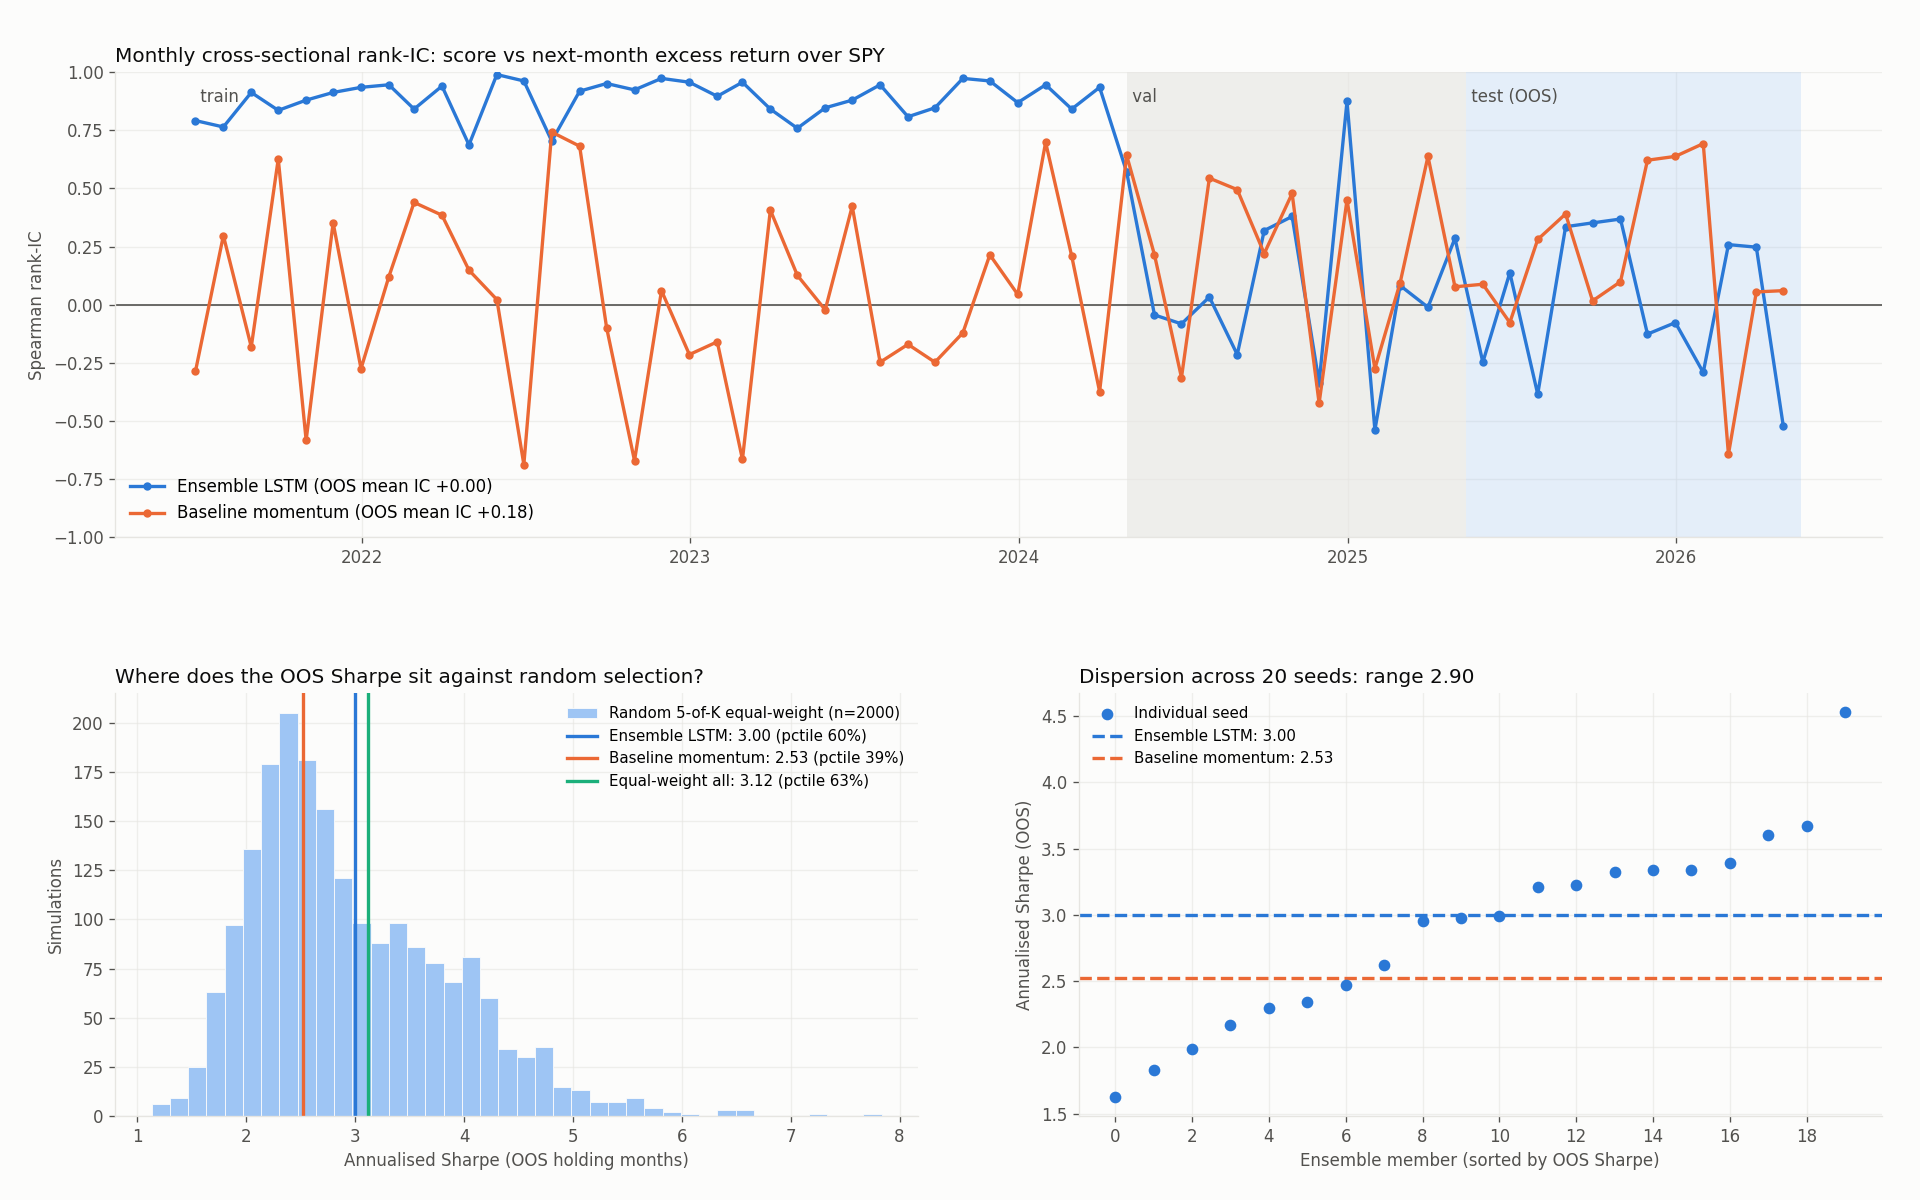
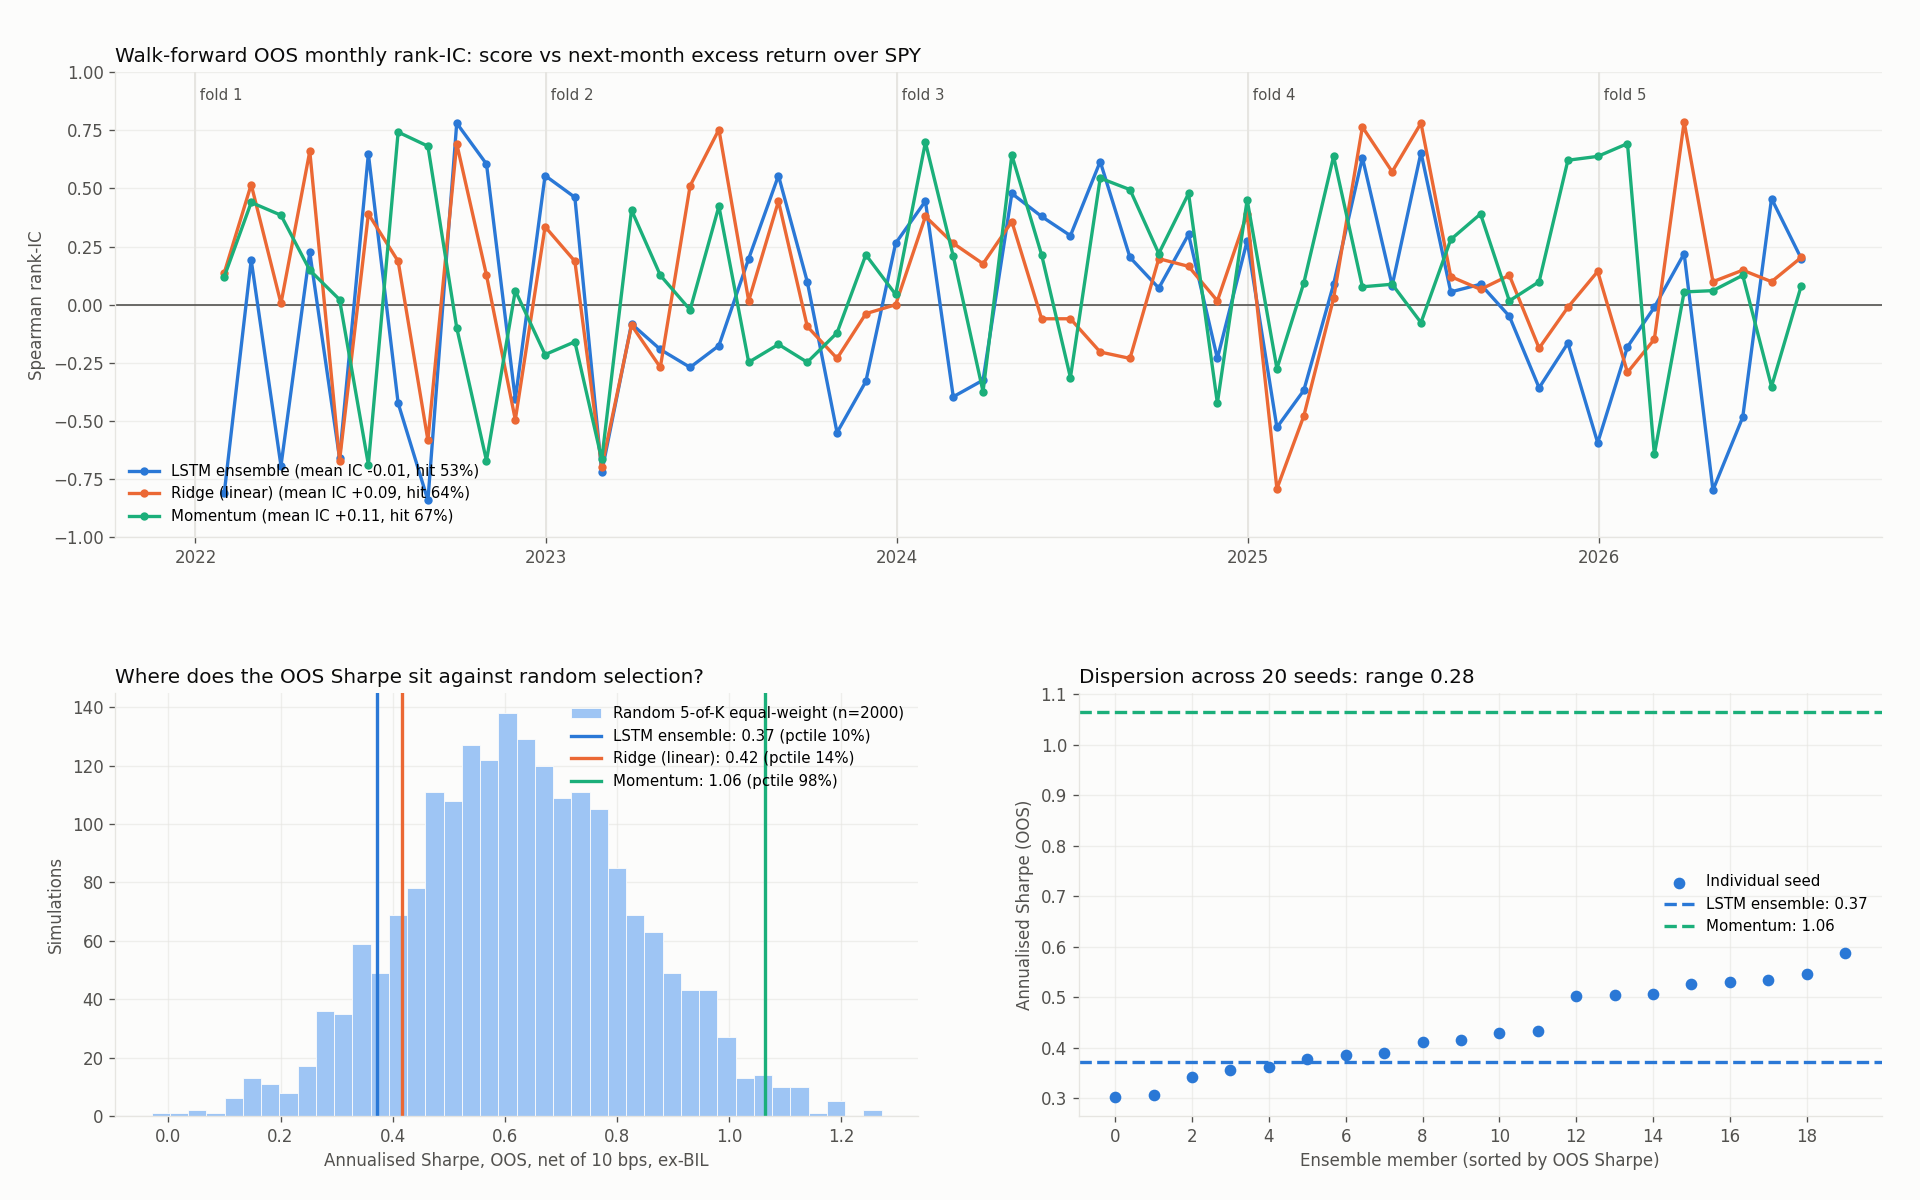
Record walk-forward results; rewrite README around the pre-registered verdict
Trained 5 folds x 20 seeds with the committed config and ran _5/_6.
Out of sample (2022-02..2026-08, 55 months, net 10 bps, Sharpe ex-BIL):

  LSTM ensemble  rank-IC -0.01 (t -0.16)  Sharpe 0.37  null pctile 10%
  Ridge          rank-IC +0.09 (t  1.86)  Sharpe 0.42  null pctile 14%
  Momentum       rank-IC +0.11 (t  2.12)  Sharpe 1.06  null pctile 98%
  SPY                                     Sharpe 0.66

Per fold the LSTM has in-sample IC 0.77-0.90 and OOS IC around zero.
All four pre-registered criteria (A predictive power, B vs ridge,
C strategy level, D consistency) fail. README now states the research
question, the validation design, these results and the honest
declarations, and retracts the earlier single-split 12-month numbers.

_6: legend placement fix in the seed-dispersion panel.

diff --git a/_6_diagnostics.py b/_6_diagnostics.py
@@ -168,7 +168,7 @@ def plot_report(ics, fold_starts, null_df, marks, seed_sharpes, out_path):
     ax.set_xlabel('Ensemble member (sorted by OOS Sharpe)', color=P['ink2'])
     ax.set_ylabel('Annualised Sharpe (OOS)', color=P['ink2'])
     ax.set_title(f'Dispersion across {len(vals)} seeds: range {vals.max() - vals.min():.2f}', color=P['ink'], loc='left')
-    ax.legend(loc='upper left', frameon=False, fontsize=9)
+    ax.legend(loc='center right', frameon=False, fontsize=9)
 
     fig.subplots_adjust(top=0.94, bottom=0.07, left=0.06, right=0.98)
     fig.savefig(out_path, dpi=120, facecolor=P['surface'])

diff --git a/README.md b/README.md
@@ -1,89 +1,126 @@
-# 📈 DeepAlpha-ETF: Ensemble LSTM & Macro-Aware Momentum Strategy
+# DeepAlpha-ETF: Does an Ensemble LSTM Beat Momentum at Monthly ETF Rotation?
 
-![Python](https://img.shields.io/badge/python-3.8%2B-blue.svg)
+![Python](https://img.shields.io/badge/python-3.13-blue.svg)
 ![PyTorch](https://img.shields.io/badge/PyTorch-%23EE4C2C.svg?logo=PyTorch&logoColor=white)
 ![Pandas](https://img.shields.io/badge/pandas-%23150458.svg?logo=pandas&logoColor=white)
 
-DeepAlpha-ETF is an end-to-end quantitative trading pipeline that applies **Deep Learning (Ensemble LSTM)** and **Macroeconomic Feature Engineering** to optimize ETF rotation strategies. It aims to outperform traditional momentum strategies by dynamically adjusting risk exposure and predicting excess returns (Alpha) based on market volatility and trend conditions.
+A research pipeline that asks one question: **can an ensemble LSTM trained on price and macro features rank a
+13-ETF universe by next-month excess return over SPY better than a plain momentum rule?** The pipeline is built so
+that the answer is decided by pre-registered criteria computed by code, not by reading an equity curve.
 
-## Key Features
+**Answer (walk-forward, 2022-02 to 2026-08, 55 months): no.** The LSTM has no detectable out-of-sample ranking
+ability (monthly rank-IC −0.01, t = −0.16), is not better than a ridge regression on the same features, and its
+net-of-cost Sharpe sits at the 10th percentile of random 5-of-13 selection. Simple 3/6/12-month momentum has a
+rank-IC of +0.11 (t = 2.1) and a Sharpe at the 98th percentile of the same null. Details below.
 
-* **Macro-Aware Feature Engineering:** Integrates global market features (SPY 200-day MA deviation, rolling volatility) with local ETF features (momentum, volatility) to give the model a holistic view of the market regime.
-* **Targeting Alpha:** Instead of predicting absolute returns, the model is trained to predict **Excess Return (Alpha)** against the SPY benchmark, naturally forcing it to seek outperforming assets.
-* **Ensemble Learning (AI Committee):** Trains multiple LSTM models with different random seeds and averages their predictions. This significantly reduces random variance and prevents overfitting, ensuring highly stable out-of-sample (OOS) performance.
-* **Signal-Weighted Allocation:** Automatically drops assets with negative expected Alpha and dynamically allocates capital proportionally to positive Alpha scores, effectively acting as an automated de-leveraging mechanism during market crashes.
-* **Strict Out-of-Sample (OOS) Backtesting:** Completely isolates the test set from the training and validation sets, eliminating Look-Ahead Bias.
+## What the pipeline does
 
-## Project Structure
+| Step | Script | What it does |
+| :--- | :--- | :--- |
+| 1 | `_1_fetch_and_clean_data.py` | Downloads adjusted closes for a pinned window (`START_DATE`/`END_DATE` in `_config.py`); forward-fills only, errors on leading NaN |
+| 2 | `_2_baseline_performance.py` | Momentum baseline (mean of 3/6/12-month returns, top-5, absolute-momentum filter to cash). Also holds the **shared backtest accounting** used by every strategy |
+| 3 | `_3_ml_data_pipeline.py` | Features (SPY 200-day trend and 20-day vol, per-ETF daily return / vol / 20-60-120-day momentum), 20-day forward excess-return targets, and **walk-forward folds with purging** |
+| 4 | `_4_lstm_model.py` | Trains one 20-seed LSTM ensemble per fold, early-stopped on that fold's validation tail |
+| 4b | `_4b_ridge_baseline.py` | Ridge regression on the same features, targets and folds; alpha picked by validation MSE |
+| 5 | `_5_strategy_backtest.py` | Stitches each fold's out-of-sample scores into one series and backtests LSTM / ridge / momentum / SPY under identical accounting; per-fold tables |
+| 6 | `_6_diagnostics.py` | Rank-IC by strategy and fold, in-sample vs OOS IC, Sharpe SE and bootstrap CI, random-selection null, seed dispersion, cost sensitivity, and the **mechanical verdict** against `_config.PRE_REGISTRATION` |
 
-The project is modularized for easy maintenance and execution. All hyper-parameters are centrally managed.
+`main.py` runs them in order (about 6 minutes on a GPU). All parameters live in `_config.py`.
 
-```text
-DeepAlpha-ETF/
-│
-├── _config.py                     # Centralized global hyper-parameters (Train/Test split, epochs, etc.)
-├── main.py                        # Master script to execute the entire pipeline sequentially
-│
-├── _1_fetch_and_clean_data.py     # Data ingestion and cleaning (using yfinance)
-├── _2_baseline_performance.py     # Traditional multi-timeframe momentum baseline
-├── _3_ml_data_pipeline.py         # Feature engineering and PyTorch DataLoader creation
-├── _4_lstm_model.py               # LSTM architecture and Ensemble training loop
-└── _5_strategy_backtest.py        # OOS backtesting, performance metrics (Sharpe, Drawdown), and plotting
+### Validation design
 
-```
+* **Walk-forward, expanding window.** Test years 2022, 2023, 2024, 2025 and 2026-to-date; each fold trains only on
+  data before its test start. Everything from 2022-02 on is out of sample.
+* **Purging.** The target spans 20 trading days, so the last 20 samples before each train/val and val/test boundary
+  are dropped. Early stopping never sees a return that overlaps the test period.
+* **Same accounting for every line.** Equal weight per slot, cash months count as 0% (not deleted), incomplete
+  final month excluded, 10 bps per unit traded, Sharpe on excess return over BIL with Lo (2002) standard error.
+* **Consistent fallback.** The ML target is alpha *relative to SPY*, so a slot whose predicted alpha is ≤ 0 holds SPY.
+  The momentum baseline uses absolute momentum, so its filtered slots hold cash.
+* **Baseline-first.** The burden of proof is on the LSTM: it must beat a ridge on the same inputs and the momentum rule.
+* **Pre-registration.** The pass/fail criteria are text in `_config.PRE_REGISTRATION`, printed verbatim at the top
+  of the diagnostics report and evaluated by code at the bottom. They were committed and pushed before the ensembles
+  were trained (commit `1a462a2`; research log in the author's `claude-notes` repo).
 
-## Getting Started
+## Results
 
-### 1. Prerequisites
+### Walk-forward out-of-sample, 2022-02 to 2026-08 (55 months, net of 10 bps, Sharpe ex-BIL)
 
-Ensure you have Python 3.8+ installed. Install the required libraries:
+| Strategy | Rank-IC (hit rate) | CAGR | Max DD | Sharpe ± SE | Percentile vs random 5-of-13 |
+| :--- | :--- | :--- | :--- | :--- | :--- |
+| Ensemble LSTM | −0.01 (53%) | 8.7% | −23.4% | 0.37 ± 0.47 | 10% |
+| Ridge (same features) | +0.09 (64%) | 9.4% | −18.9% | 0.42 ± 0.47 | 14% |
+| Momentum (3/6/12m, top 5) | +0.11 (67%) | 17.7% | −8.9% | 1.06 ± 0.48 | 98% |
+| SPY | — | 13.9% | −20.3% | 0.66 ± 0.47 | — |
+| Equal-weight 13 ETFs | — | 12.6% | −14.2% | 0.83 ± 0.47 | 84% |
+
+### Per fold: the LSTM memorises its training period and forgets it out of sample
+
+| Fold (test year) | Train samples | In-sample rank-IC | OOS rank-IC | OOS Sharpe LSTM / Ridge / Momentum / SPY |
+| :--- | :--- | :--- | :--- | :--- |
+| 2022 | 166 | +0.90 | −0.07 | −0.18 / 0.08 / 0.02 / −0.32 |
+| 2023 | 418 | +0.82 | −0.06 | −0.18 / −0.16 / 0.10 / 1.06 |
+| 2024 | 669 | +0.86 | +0.18 | 1.40 / 1.22 / 1.78 / 1.78 |
+| 2025 | 919 | +0.84 | −0.04 | 0.85 / 0.85 / 3.29 / 1.08 |
+| 2026 (Jan–Aug) | 1169 | +0.77 | −0.09 | 0.69 / 0.71 / 0.47 / 0.94 |
+
+### Pre-registered verdict (computed by `_6_diagnostics.py`)
+
+| Criterion | Rule | Result |
+| :--- | :--- | :--- |
+| A — predictive power | OOS rank-IC mean > 0 and t > 2 | **Fails** (mean −0.009, t −0.16) |
+| B — vs linear baseline | paired t of (LSTM − ridge) monthly IC > 2 | **Fails** (t −1.95; ridge is better) |
+| C — strategy level | Sharpe(LSTM) − Sharpe(momentum) ≥ 1 SE and null percentile ≥ 95% | **Fails** (−0.69 vs SE 0.47; 10th percentile) |
+| D — consistency | per-fold results reported alongside the aggregate | 1 of 5 folds has positive OOS IC (2024); reported above |
+
+![diagnostics](diagnostics_report.png)
+
+### What this means
+
+* The model has 36,685 parameters and, in the first fold, 166 overlapping daily samples (about 8 independent months).
+  In-sample IC of 0.8–0.9 in every fold with OOS IC around zero is memorisation, not prediction.
+* The ridge regression on the same features chooses the strongest regularisation available in every fold and still
+  barely beats predicting zero on validation. There is little linearly recoverable signal in these features at a
+  20-day horizon; a deeper model does not create signal that is not there.
+* The momentum baseline is the only signal with a positive, borderline-significant OOS rank-IC. Its Sharpe advantage
+  over SPY is one standard error and should be read as "consistent with a modest momentum premium", not as proof.
+* The single-split result reported in earlier versions of this README (12-month OOS, Sharpe 2.93, MDD −3.6%) came
+  from a strong bull market in which random 5-of-13 portfolios had a median Sharpe of 2.8, from a strategy whose
+  Sharpe SE was ±1.2, and from a pipeline that deleted cash months, used no transaction costs, and had no purge
+  between validation and test. It should not be cited.
+
+### Honest declarations
+
+* 55 monthly observations give limited power: a true IC of 0.05 would likely go undetected. "No evidence" is not
+  "proof of absence".
+* The 13 ETFs were chosen with hindsight and the sample ends at the data-fetch date; both flatter every line.
+* The first fold's LSTM is trained on 166 samples and is close to a random initialisation; dropping it after the fact
+  would be selection, so it stays.
+* yfinance adjusted closes are revised with each distribution, so re-runs reproduce the numbers only to a few
+  decimal places.
+
+## Getting started
 
 ```bash
-pip install yfinance pandas numpy torch matplotlib
-
-```
-
-### 2. Configuration
-
-You can tweak the parameters (e.g., train/test ratios, lookback windows, hidden size) in `_config.py` before running the pipeline.
-
-### 3. Run the Pipeline
-
-Execute the master script to run the entire process from data downloading to backtest visualization:
-
-```bash
+pip install -r requirements.txt
 python main.py
-
 ```
 
-## Performance & Visualization
+Model weights are written to `saved_models/<fold>/` and are not tracked in git. Outputs in the repo root:
+`baseline_vs_spy_performance.png`, `ml_vs_baseline_performance.png`, `diagnostics_report.png`,
+`oos_monthly_returns.csv`, `diagnostics_summary.csv`, `diagnostics_ic_monthly.csv`, `diagnostics_ic_by_fold.csv`.
 
-The pipeline will generate two main charts in the root directory:
-1. `baseline_vs_spy_performance.png`: Traditional Momentum vs. SPY.
-2. `ml_vs_baseline_performance.png`: The Ultimate Showdown (Ensemble LSTM vs. Traditional Baseline vs. SPY).
+To change the experiment, edit `_config.py`. If you change anything the pre-registration forbids (sequence length,
+hidden size, epochs, learning rate, fold boundaries, universe), also change `PRE_REGISTRATION` so the diff records it.
 
-### 🏆 Out-of-Sample Performance Report (12 Trading Months)
-Below is a recent out-of-sample backtest result demonstrating the AI's risk management capabilities. 
+## Model
 
-| Strategy | CAGR | Max Drawdown | Sharpe Ratio |
-| :--- | :--- | :--- | :--- |
-| **🤖 Ensemble LSTM AI (Top 5)** | **41.15%** | **-3.63%** | **2.93** |
-| 📈 Traditional Momentum (Top 5)| 48.00% | -9.21% | 2.57 |
-| 🏛 SPY Benchmark | 31.08% | -5.76% | 2.10 |
-<img width="1600" height="1000" alt="ml_vs_baseline_performance" src="https://github.com/user-attachments/assets/8066a828-76e7-47f7-8314-81abab8b1f2d" />
-
-> **💡 Quantitative Insight:** > While the Traditional Momentum strategy captured higher absolute returns (48.00%) during a strong bull market, it suffered a significant drawdown (-9.21%). The **Ensemble LSTM AI** intelligently sacrificed a portion of the extreme upside to provide **massive downside protection (Max Drawdown of only -3.63%)**, ultimately achieving a vastly superior risk-adjusted return (**Sharpe Ratio: 2.93**).
-
-
-## Model Architecture (MomentumLSTM)
-
-* **Input Layer:** Processes time-series sequences (default: 60 days lookback).
-* **LSTM Layer:** Captures temporal dependencies in price and macro data.
-* **Layer Normalization:** Stabilizes distribution shifts common in financial time-series.
-* **Non-Linear Fusion:** Uses a fully connected layer with GELU activation for feature crossing (Macro AND Micro conditions).
-* **Dropout:** Applied at 30% to prevent overfitting.
-* **Loss Function:** HuberLoss to provide robustness against extreme market outliers (fat tails).
+`MomentumLSTM`: single-layer LSTM (hidden 64) over a 60-day window of 67 standardised features → LayerNorm →
+Linear(64→32) + GELU → Dropout(0.3) → Linear(32→13). Huber loss with δ = 0.05 (about 1.2σ of the target; the
+earlier δ = 1.0 never entered the linear region and was MSE in effect). Adam, lr 0.002, weight decay 1e-4,
+ReduceLROnPlateau, 60 epochs, best-validation checkpoint. 20 seeds per fold, predictions averaged.
 
 ## Disclaimer
 
-This project is for educational and research purposes only. It does not constitute financial advice. Historical performance is not indicative of future results. Trading in financial markets involves significant risk of loss. Always test algorithms thoroughly in a paper-trading environment before deploying real capital.
+This project is for educational and research purposes only. It does not constitute financial advice. Historical
+performance is not indicative of future results. Trading in financial markets involves significant risk of loss.
